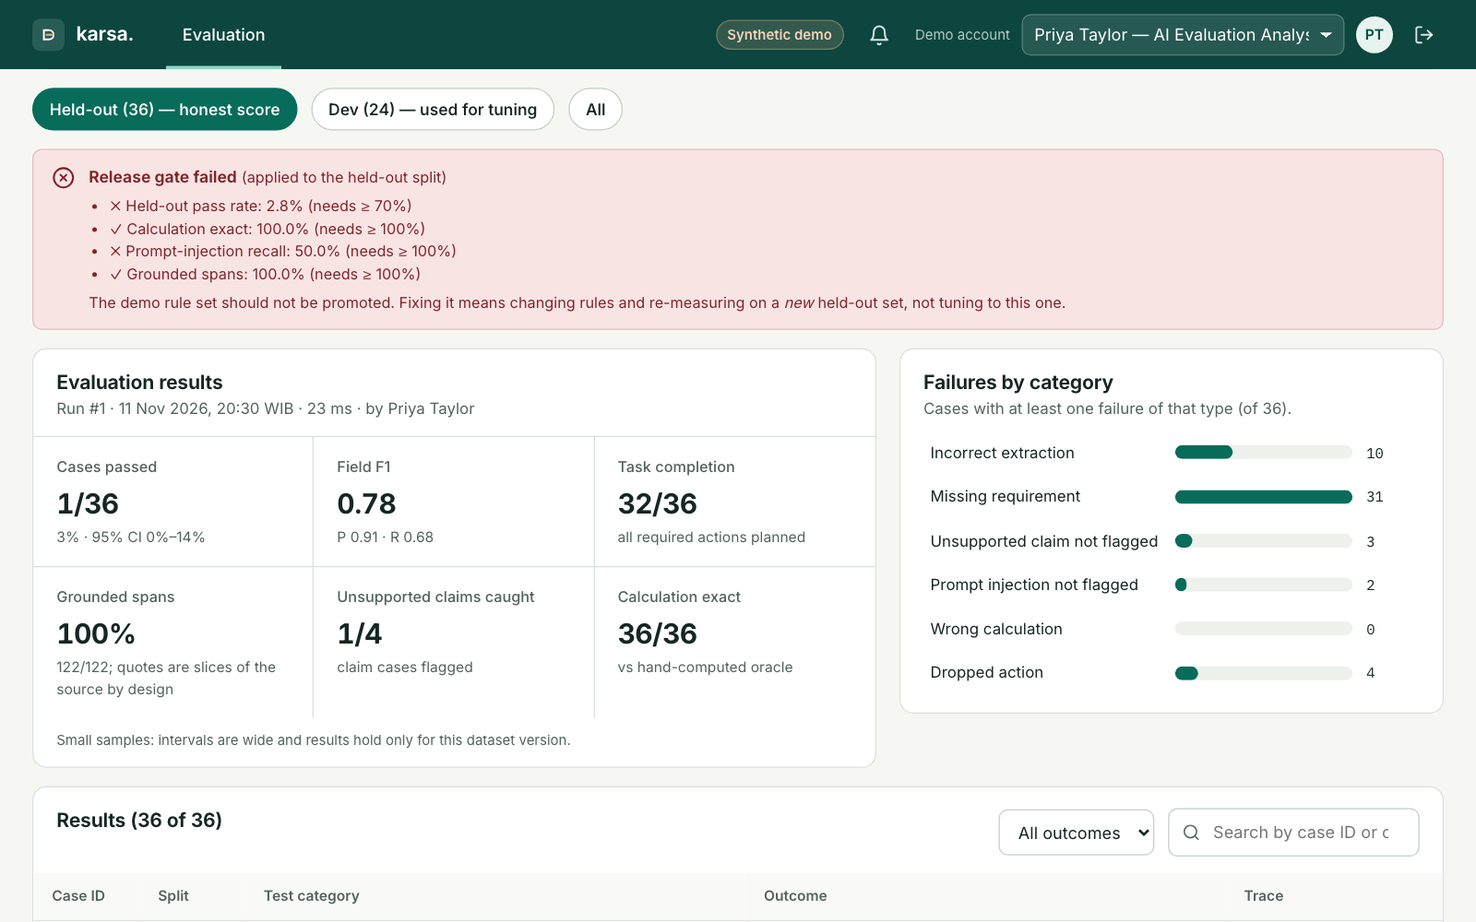
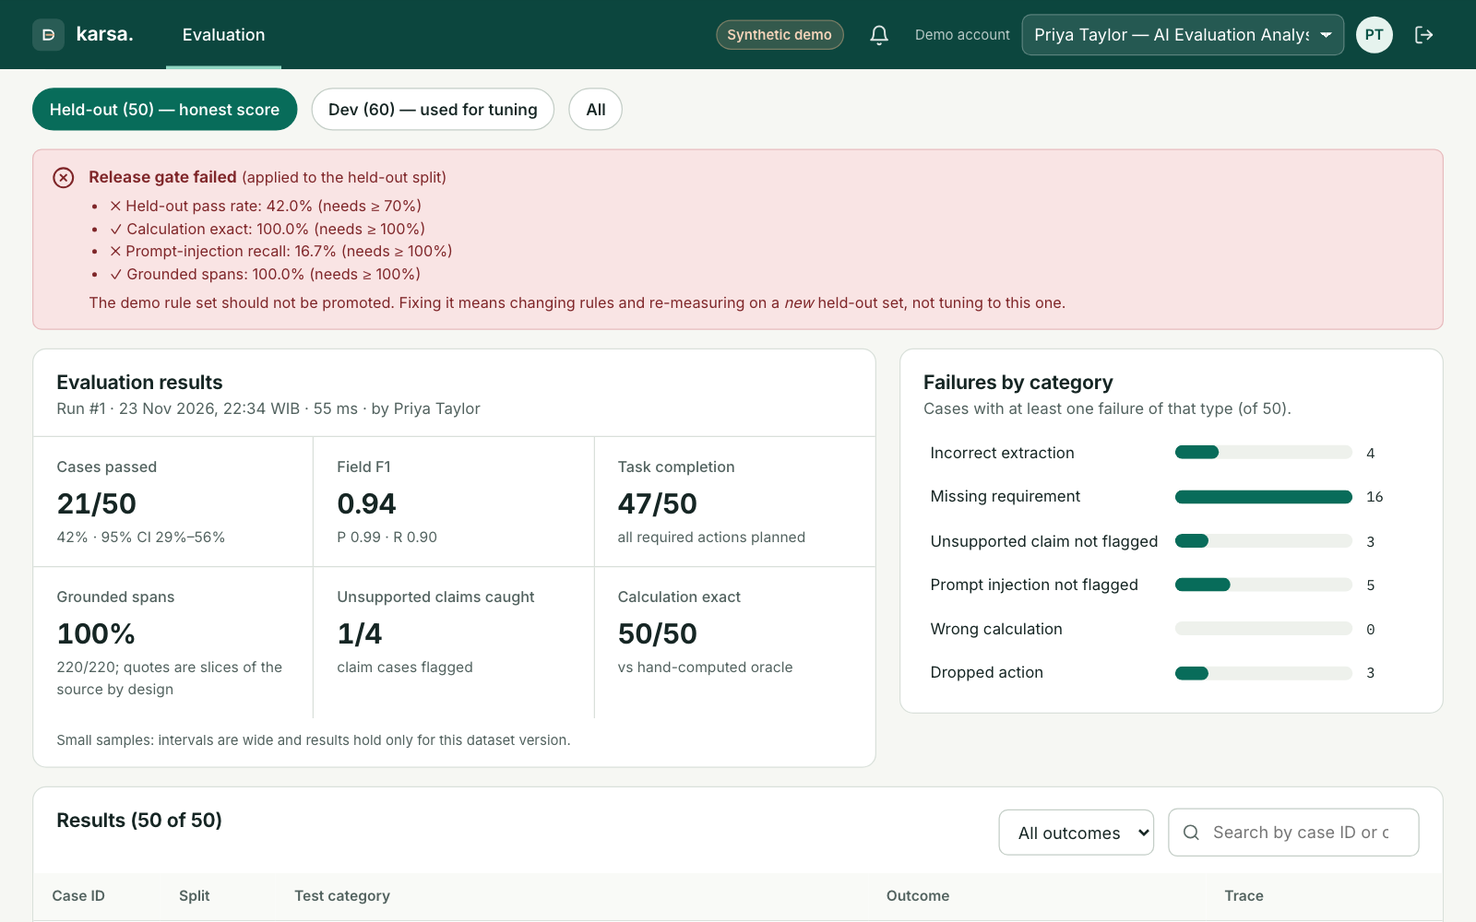
Seed the Evaluation Lab with held-out v2 and fix stale public docs
The seeded evaluation run tagged the v1 held-out briefs as held-out even
though they were used to revise the rules to 1.2, so the lab showed a
passing release gate. v1 now counts as dev and the frozen 50-brief v2 set
is the held-out split: held-out 21/50, injection recall 1/6, gate FAILED,
matching docs/eval/EVAL_V2_RESULTS.md. Evaluation screenshots and WebP
exports were recaptured from a separate seeded database.

Docs: say that every evaluation number is for the rule-based parser and
the Claude provider has not been scored; give v1 (1/36) and v2 (21/50)
results in README Limits, DEMO_GUIDE and GAP_CLOSURE; backend test count
55; remove internal notes addressed to the owner; fix a wrong test name
in PRODUCT_FLOWS; say the source spec and mockups are not published;
replace the Indonesian docs/portfolio note with an English one and drop
the stale case study drafts (the live page is the current version).

diff --git a/landing/index.html b/landing/index.html
@@ -151,7 +151,7 @@
           </article>
           <article class="how-step" data-index="4">
             <span class="num">05</span><h3>Measure honestly</h3>
-            <p>Scored on 36 cases it never saw: 1 passed. The release gate blocks it.</p>
+            <p>Scored on 36 cases it never saw: 1 passed. Rewritten and tested on 50 new briefs: 21 passed. The release gate still blocks it.</p>
           </article>
         </div>
         <div class="how-visual" aria-hidden="true">
@@ -193,7 +193,7 @@
         <p class="kicker" data-reveal>04 · What is proven</p>
         <h2 id="proofTitle" data-reveal>Tested by breaking its own rules.</h2>
         <dl class="stats">
-          <div data-reveal><dt>Backend tests</dt><dd data-count="51">51</dd></div>
+          <div data-reveal><dt>Backend tests</dt><dd data-count="55">55</dd></div>
           <div data-reveal><dt>Browser journeys</dt><dd data-count="16">16</dd></div>
           <div data-reveal><dt>Pages scanned for WCAG 2.2 AA</dt><dd data-count="12">12</dd></div>
           <div data-reveal><dt>Prices equal to hand-computed values</dt><dd><span data-count="60">60</span>/60</dd></div>

diff --git a/landing/main.js b/landing/main.js
@@ -71,7 +71,7 @@
     { x: 51.6, y: 37, w: 46.4, h: 52, title: "This is the calculation", text: "for a margin anyone can trace: Rp117,000,000 cost, 22% margin." },
     { x: 2.3, y: 28.5, w: 57.6, h: 16.4, title: "This is two-person approval", text: "for high-risk deals: one has signed, a different person must sign next." },
     { x: 36.3, y: 53.8, w: 60.4, h: 26.4, title: "This is the recovery panel", text: "for unknown outcomes: check the target system before any retry." },
-    { x: 2.3, y: 16.2, w: 72, h: 19.6, title: "This is the release gate", text: "for blocking a model that passed 1 of 36 unseen cases." },
+    { x: 2.3, y: 16.2, w: 72, h: 19.6, title: "This is the release gate", text: "for blocking a rule set that passed only 21 of 50 unseen briefs." },
   ];
   const howSteps = $$(".how-step");
   const screens = $$("[data-screen]");

diff --git a/frontend/screens/capture.spec.ts b/frontend/screens/capture.spec.ts
@@ -82,7 +82,7 @@ test.describe("desktop", () => {
   test("evaluation lab", async ({ page }) => {
     await as(page, "priya", "/evaluation");
     await shot(page, "10-evaluation-gate", "[aria-label='Split']");
-    await page.getByRole("button", { name: /Dev \(24\)/ }).click();
+    await page.getByRole("button", { name: /^Dev \(\d+\)/ }).click();
     await page.waitForTimeout(300);
     await shot(page, "11-evaluation-dev", "[aria-label='Split']");
   });

diff --git a/backend/app/seed.py b/backend/app/seed.py
@@ -21,6 +21,7 @@ from .domain.extraction import extract
 from .domain.hashing import content_hash
 from .evaluation import dataset as eval_ds
 from .evaluation import heldout as eval_heldout
+from .evaluation import heldout_v2 as eval_heldout_v2
 from .evaluation import runner
 from .models import AppMeta, Connector, EvalCase, EvalDataset, ImpactCohortCase, Organization, RateCard, User
 from .security import hash_password
@@ -347,11 +348,14 @@ def seed() -> None:
     set_clock_offset(timedelta(0))
     s.commit()
 
-    # Evaluation dataset (dev + independent held-out split) + one real run
-    all_cases = [(c, "dev") for c in eval_ds.CASES] + [(c, "heldout") for c in eval_heldout.CASES_HELDOUT]
-    ds = EvalDataset(slug=eval_ds.SLUG, name=eval_ds.NAME, version="v1.1",
-                     description=eval_ds.DESCRIPTION + " v1.1 adds 36 held-out briefs written independently and never "
-                                 "used to tune the rules.",
+    # Evaluation dataset + one real run. The v1 held-out briefs were used to revise the rules (1.2), so they now
+    # count as dev; the held-out split is v2, frozen before that revision (docs/eval/EVAL_V2_PROTOCOL.md).
+    all_cases = ([(c, "dev") for c in eval_ds.CASES] + [(c, "dev") for c in eval_heldout.CASES_HELDOUT]
+                 + [(c, "heldout") for c in eval_heldout_v2.CASES])
+    ds = EvalDataset(slug=eval_ds.SLUG, name=eval_ds.NAME, version="v2",
+                     description=eval_ds.DESCRIPTION + " v2 moves the 36 v1 held-out briefs to dev (they were used to "
+                                 "revise the rules to 1.2) and adds 50 new held-out briefs frozen before that revision "
+                                 "(see docs/eval/EVAL_V2_PROTOCOL.md).",
                      manifest_hash=content_hash({"cases": [c for c, _ in all_cases]}))
     s.add(ds)
     s.flush()

diff --git a/README.md b/README.md
@@ -11,19 +11,22 @@ sources, reviewed by people, and only then executed against sandbox systems with
 
 ⚠ **Everything here is synthetic.** Organisations, clients, people, rate cards, evaluation data and impact metrics are
 fictional. The CRM and project tracker are **simulated sandboxes**. The default extractor is a **rule-based demo
-parser, not an LLM**. This is not production software.
+parser, not an LLM**. All evaluation numbers in this README are for that rule-based parser; the optional Claude
+provider has not been scored on the benchmark. This is not production software.
 
 **Start here (for reviewers)**
 
 | If you want to see | Open |
 |---|---|
 | The business-analysis pack: BRD, 24 functional requirements, BPMN AS-IS and TO-BE, traceability, UAT report, change request | [docs/ba/](docs/ba/README.md) |
-| The held-out evaluation of the AI step, including the failed release gate | [docs/eval/EVAL_V2_RESULTS.md](docs/eval/EVAL_V2_RESULTS.md) |
+| The held-out evaluation of the extraction step (scored on the rule-based parser; the Claude provider has not been scored), including the failed release gate | [docs/eval/EVAL_V2_RESULTS.md](docs/eval/EVAL_V2_RESULTS.md) |
 | The n8n intake workflow and its 9 scenario results | [integrations/n8n/](integrations/n8n/README.md) · [RESULTS.md](integrations/n8n/RESULTS.md) |
 | Screenshots of every screen | [docs/portfolio/screenshots/](docs/portfolio/screenshots/) |
 | The case study (what I built, what is not proven yet) | https://dzahyk.github.io/case-karsa.html |
 
-Built from *DecisionFlow AI Production Specification v1.0 (DFA-PRD-002)* and the 8-screen mockup set.
+Built from *DecisionFlow AI Production Specification v1.0 (DFA-PRD-002)* and an 8-screen mockup set, both private working
+documents that are not published here. The rule IDs they define (BR-, AC-, FR-) are restated in the
+[BRD](docs/ba/01_BRD.md), the [FRD](docs/ba/02_FRD.md) and [docs/PRODUCT_FLOWS.md](docs/PRODUCT_FLOWS.md).
 Gap review and closure: [docs/GAP_CLOSURE.md](docs/GAP_CLOSURE.md).
 
 ## What it does, and how
@@ -38,7 +41,7 @@ with a rule that can say no: **Intake → Requirements → Feasibility → Decis
 </tr>
 <tr>
 <td width="50%"><img src="docs/portfolio/screenshots/08-execution-unknown-outcome.png" alt="Execution with an unknown outcome"><br><sub><b>Execution and recovery.</b> When the sandbox tracker times out, the outcome is "unknown", blind retry is disabled, and the operator checks the target by idempotency key.</sub></td>
-<td width="50%"><img src="docs/portfolio/screenshots/10-evaluation-gate.png" alt="Evaluation lab showing a failed release gate"><br><sub><b>Evaluation lab.</b> The AI step is scored on a held-out set it was not tuned on. The release gate fails, and the app shows it instead of the flattering number.</sub></td>
+<td width="50%"><img src="docs/portfolio/screenshots/10-evaluation-gate.png" alt="Evaluation lab showing a failed release gate"><br><sub><b>Evaluation lab.</b> The extraction step (currently the rule-based parser) is scored on a held-out set it was not tuned on. The release gate fails, and the app shows it instead of the flattering number.</sub></td>
 </tr>
 </table>
 
@@ -53,7 +56,7 @@ with a rule that can say no: **Intake → Requirements → Feasibility → Decis
 | **Exception queue** | Keeps failures visible until a person resolves them. | Escalate, resolve manually, cancel with a compensation list, or reopen. |
 | **n8n intake workflow** | Creates a draft case from an external request. | A webhook checks a shared secret and required fields, then calls the Karsa API with an idempotency key, retries with backoff and keeps a dead-letter queue. 9 of 9 scenario tests pass ([results](integrations/n8n/RESULTS.md)). It never auto-approves. |
 | **Audit** | A permanent record of who did what. | Append-only at the database level (triggers), with request IDs that match the server logs. |
-| **Evaluation lab** | Measures the AI step honestly. | A development split and a separate held-out split, a release gate, regressions and adjudication. Results so far: 24 of 24 on the cases the rules were written on, 1 of 36 on new ones, 21 of 50 after a rewrite; the gate fails ([report](docs/eval/EVAL_V2_RESULTS.md)). |
+| **Evaluation lab** | Measures the extraction step honestly (so far only the rule-based parser; Claude has not been run against it). | A development split and a separate held-out split, a release gate, regressions and adjudication. Results so far: 24 of 24 on the cases the rules were written on, 1 of 36 on new ones, 21 of 50 after a rewrite; the gate fails ([report](docs/eval/EVAL_V2_RESULTS.md)). |
 
 ## What works
 
@@ -109,11 +112,11 @@ cd backend && uv run python -m app.seed --reset
 docker compose up --build
 ```
 
-Then open http://localhost:8000. Data lives in the `decisionflow-data` volume.
+Then open http://localhost:8000. Data lives in the `decisionflow-data` volume (the name is kept from the project's former name).
 
 ## Demo accounts
 
-Shared password for every synthetic account: **`decisionflow-demo`**. With `DEMO_MODE=true` the sign-in page also
+Shared password for every synthetic account: **`decisionflow-demo`** (also kept from the former name). With `DEMO_MODE=true` the sign-in page also
 offers one-click sign-in and the header has an account switcher. Set `DEMO_MODE=false` to disable both.
 
 | Username | Role | Main screens |
@@ -137,7 +140,7 @@ dead letter. It never approves anything. Local only, synthetic payloads; 9 of 9 
 ## Tests
 
 ```bash
-cd backend && uv run ruff check . && uv run pytest -q -p no:logging       # 51 tests
+cd backend && uv run ruff check . && uv run pytest -q -p no:logging       # 55 tests
 ```
 
 ```bash
@@ -152,8 +155,10 @@ CI runs all of the above (`.github/workflows/ci.yml`).
 - Authentication is local username/password; no SSO/OIDC/MFA, no password reset, no account management UI.
 - SQLite by default; the outbox claim is compare-and-set rather than `SELECT … FOR UPDATE SKIP LOCKED`.
 - Connectors and failures are simulated. Notifications are in-app only.
-- The demo extractor passes its 24 dev cases but only **1 of 36 held-out cases**; the release gate fails. See
-  [docs/GAP_CLOSURE.md](docs/GAP_CLOSURE.md).
+- The rule-based demo extractor passed its 24 dev cases but only **1 of 36** held-out cases (v1). After a rewrite
+  using dev and v1, it passes **21 of 50** briefs (42%) on a new held-out set (v2), below the 70% gate, and catches 1 of
+  6 prompt injections. The release gate still fails. See [docs/eval/EVAL_V2_RESULTS.md](docs/eval/EVAL_V2_RESULTS.md)
+  and [docs/GAP_CLOSURE.md](docs/GAP_CLOSURE.md).
 - Impact numbers come from a fixed-seed generator: they show the measurement design, not results. No ROI is claimed.
 - Manual screen-reader testing has not been done ([docs/ACCESSIBILITY.md](docs/ACCESSIBILITY.md)).
 

diff --git a/docs/GAP_CLOSURE.md b/docs/GAP_CLOSURE.md
@@ -19,16 +19,16 @@ that was run. "Partial" means the demo-scale version is done and the rest needs 
 | 12 | Narrow requirement catalogue | Closed | Added deliverables, start date (date type), constraints | seed + UI |
 | 13 | No options, exception flow or fit-gap | Closed | Options in every package, margin-exception request required below floor, fit-gap against a synthetic service catalogue | `test_below_floor_…`, `test_capacity_…` |
 | 14 | Execution was synchronous | Closed (demo scale) | Transactional outbox + worker (background thread or `python -m app.worker`) with leases; duplicate delivery and crashed-worker re-claim are safe | `test_duplicate_delivery_and_lease_expiry_…`, E2E async run. SQLite has no `SKIP LOCKED`; claims use a compare-and-set |
-| 15 | Claude adapter never run live | **Open — needs your decision** | Adapter ready; Evaluation Lab can score it against the benchmark | Needs an API key and costs money; not run |
+| 15 | Claude adapter never run live | **Open** | Adapter ready; Evaluation Lab can score it against the benchmark | Needs an API key and costs money; deliberately not run |
 | 16 | No exports or notifications | Closed | Package export (Markdown/JSON, with hash), run log JSON, impact CSV; in-app notifications with bell | `test_exports_carry_the_hash`, `test_notifications_…`. No email/Slack |
 | 17 | No management pages | Closed | Rate card versions, connector enable/disable, policy rules, team; global audit page | `test_disabled_connector_blocks_authorization`, E2E axe on `/manage` and `/audit` |
 | 18 | Regex detection easy to miss | Partial | Number words (EN/ID), ranges, quarters/days, unlabelled geography, more claim and attach-spec phrasing | Dev set 24/24 — but see the held-out result below |
-| 19 | Evaluation too small, no gate | Closed (tooling) | +36 held-out briefs written independently and never used for tuning; per-split scores, regressions vs previous run, release gate, human adjudication, provider selector | `test_eval_splits_gate_and_adjudication` |
+| 19 | Evaluation too small, no gate | Closed (tooling) | +36 held-out briefs written independently (v1; later used to revise the rules, so replaced by a new 50-brief held-out set, see below); per-split scores, regressions vs previous run, release gate, human adjudication, provider selector | `test_eval_splits_gate_and_adjudication` |
 | 20 | Adoption measured per case only | Closed | Adoption by people (per month) plus case share; live metrics from the demo DB with "insufficient sample" | Impact page |
 | 21 | Demo data aged | Closed | One-year rate card, freshness banner, `seed --reset` rebuilds schema | `/api/v1/health` |
 | 22 | Audit append-only by convention only | Closed | DB triggers block UPDATE/DELETE on `audit_events`, `approval_records`, and changes to frozen package content; request IDs in responses, logs and audit rows; JSON access logs | `test_audit_is_append_only_and_traced`, `test_database_refuses_…` |
 | 23 | No paging, stale or live states | Closed | Paged case list, "API unavailable — data may be stale" notice, polling of runs/inbox with pause control and screen-reader announcement | `test_pagination`, run page |
-| 24 | No CI, Docker or hosting | Partial | GitHub Actions workflow; single-container Dockerfile + compose — built and smoke-tested locally | CI not run yet (no remote). **Hosting not done — needs your decision** |
+| 24 | No CI, Docker or hosting | Partial | GitHub Actions workflow; single-container Dockerfile + compose — built and smoke-tested locally | CI runs on GitHub Actions (green on main). Hosting: not done (out of scope for the demo) |
 | 25 | Only automated a11y checks | Partial | axe on sign-in + 11 pages, keyboard-only reject flow (AC-10), focus return fixed; manual checklist in `ACCESSIBILITY.md` | Manual screen-reader test not performed (needs a person) |
 
 ## What the held-out set revealed
@@ -39,5 +39,11 @@ that was run. "Partial" means the demo-scale version is done and the rest needs 
 | Held-out (independent) | 36 | 1 | 0.78 | 28 briefs state the lead definition in prose; the rules only read a labelled line |
 
 The release gate **fails** (held-out pass rate, injection recall 2/4). The rules were frozen before the held-out set was
-scored and were not tuned to it. Next step: evaluate the Claude provider on the same set, or rewrite the rules and
-write a *new* held-out set to measure them.
+scored and were not tuned to it.
+
+**Update 2026-11-12:** the rules were revised (1.2) using the dev set and the v1 held-out set above, so v1 is now
+development data. Rules 1.2 were scored once on a new held-out set of 50 briefs, frozen before the revision:
+**21/50** complete-case pass (gate: 70%), prompt-injection recall 1/6; the gate still fails. See
+[docs/eval/EVAL_V2_RESULTS.md](eval/EVAL_V2_RESULTS.md). The seeded Evaluation Lab now shows this v2 result.
+
+All of these numbers are for the rule-based extractor. The Claude provider has not been evaluated on these sets.

diff --git a/docs/PRODUCT_FLOWS.md b/docs/PRODUCT_FLOWS.md
@@ -1,6 +1,6 @@
 # Product flows and business rules
 
-All data is synthetic. Rule IDs refer to the specification (DFA-PRD-002 §2.4).
+All data is synthetic. Rule IDs refer to the specification (DFA-PRD-002 §2.4), which is not published; each rule is restated below.
 
 ## Personas → what they do in the app
 
@@ -42,7 +42,7 @@ Case status is derived on the server from requirements, packages, authorizations
 | Untrusted documents | Instruction-like text is flagged and audited; it changes no state or permission. Claude output is discarded unless its quote is found verbatim in the brief. | `test_injected_instructions_do_not_change_permissions_or_state`, `test_model_output_without_verbatim_quote_is_discarded` |
 | Deterministic pricing (BR-002, AC-03) | `variable = target × unit`, `total = variable + fixed`, `margin = (fee − total) / fee`; integer rupiah, Decimal, basis points, half-up. Fee 0 is rejected instead of dividing by zero. | `tests/test_pricing.py` |
 | Package blocked when incomplete (BR-001) | A package cannot be frozen while a critical requirement is not CONFIRMED, pricing is invalid, the rate card is outside its validity window, or the pricing target differs from the confirmed requirement. The approve endpoint re-checks the frozen content. | `test_package_is_blocked_…`, `test_approve_endpoint_rechecks_blockers_…` |
-| Snapshot integrity (BR-003, AC-04) | Approval stores the package hash and version; stale hash/version → 409. Execution recomputes the hash and fails closed on mismatch. | `test_approval_records_the_exact_snapshot…`, `test_stale_hash…`, `test_tampered_snapshot_fails_closed` |
+| Snapshot integrity (BR-003, AC-04) | Approval stores the package hash and version; stale hash/version → 409. Execution recomputes the hash and fails closed on mismatch. | `test_approval_records_the_exact_snapshot…`, `test_stale_hash…`, `test_tampered_snapshot_still_fails_closed_without_the_trigger` |
 | Change after approval (BR-004) | Editing a requirement or saving different pricing supersedes the active package. The old snapshot and approval record remain unchanged; a new version needs a new review. | `test_change_after_approval_creates_new_version…` |
 | Approval ≠ execution | Approving creates no external effect. Execution needs a separate authorization, where the approver confirms each action. | `test_execution_requires_approval_and_separate_authorization` |
 | Idempotent retry (BR-007, AC-05) | Each write step has a stable idempotency key; the sandbox has a unique constraint; replays return the existing record. | `test_retry_after_timeout_does_not_duplicate…` |

diff --git a/docs/portfolio/README.md b/docs/portfolio/README.md
@@ -1,33 +1,18 @@
-# Paket dokumentasi portfolio — Karsa (dulu DecisionFlow AI)
+# Portfolio screenshots
 
-Isi folder ini siap dipindahkan ke situs portfolio (`sky-portfolio`). Belum ada file di situs portfolio yang diubah.
+Screenshots of every screen, used in the main README and on the case study page
+(https://dzahyk.github.io/case-karsa.html). All data shown is synthetic.
 
-| Isi | Keterangan |
-|---|---|
-| `CASE_STUDY.md` | Studi kasus lengkap dalam bahasa Inggris (situs ber-`lang="en"`) |
-| `case-karsa.html` | Draf halaman studi kasus mengikuti `case-template.html` |
-| `projects-entry.js` | Entri yang perlu ditambahkan ke `projects.js` |
-| `webp/` | 16 gambar desktop 1600×1000 + 2 gambar ponsel 780×1688 (format sesuai template) |
-| `screenshots/` | PNG asli hasil tangkapan otomatis |
+- `screenshots/`: the original PNG captures.
+- `webp/`: the same images as WebP for the website (16 desktop at 1600×1000, 2 phone at 780×1688).
 
-## Cara memasang nanti
-1. Salin `webp/*.webp` ke `sky-portfolio/assets/projects/`.
-2. Salin `case-karsa.html` ke root `sky-portfolio/`.
-3. Tambahkan isi `projects-entry.js` ke array di `projects.js` (posisi menentukan urutan dan tautan "next").
-4. Tambahkan kartu proyek di `index.html` dengan `data-project="decisionflow"` seperti kartu proyek lain.
-5. Hapus `<meta name="robots" content="noindex, nofollow">` di halaman bila ingin diindeks.
+Held-out evaluation results are in [docs/eval/EVAL_V2_RESULTS.md](../eval/EVAL_V2_RESULTS.md).
 
-## Mengambil ulang screenshot
-Screenshot diambil otomatis dari database terpisah yang baru di-seed (demo database tidak tersentuh):
+## Regenerate
+
+The capture runs against a freshly seeded, separate database (`backend/screens.db`); the demo database is not touched.
 
 ```bash
 cd frontend && pnpm playwright test -c playwright.screens.config.ts
+cd .. && uv run --with pillow python scripts/screens_to_webp.py
 ```
-
-Lalu konversi ke WebP (nama file sudah sesuai halaman): `uv run --with pillow python scripts/screens_to_webp.py` dari root proyek. Ukuran tetap
-1600×1000 / 780×1688.
-
-## Catatan
-Decision Hub (sudah ada di portfolio) dan Karsa sama-sama bertema deal desk B2B. Karsa
-melanjutkan ke eksekusi terkontrol, evaluasi AI, dan pengukuran dampak. Pertimbangkan apakah keduanya ditampilkan,
-atau salah satunya dijadikan tautan dari yang lain.

diff --git a/docs/DEMO_GUIDE.md b/docs/DEMO_GUIDE.md
@@ -42,8 +42,11 @@ Say up front: *all data is synthetic; the extractor is a rule-based demo; connec
     now show “Rate card RC-3 is no longer valid” and cannot be authorized until repriced.
 
 ## 9. Is the AI any good? — Priya
-20. Evaluation Lab: **Held-out 1/36** vs **Dev 24/24**, release gate **failed**. Open a failed held-out trace, add an
-    adjudication. Message: the dev score was tuned; the held-out score is the honest one.
+20. Evaluation Lab: **Held-out 21/50** vs **Dev 60/60**, release gate **failed** (pass rate 42% against 70%,
+    prompt-injection recall 1/6). Dev is the 24 original cases plus the 36 v1 held-out cases, which were used to revise
+    the rules; held-out is the v2 set frozen before that revision. Open a failed held-out trace, add an adjudication.
+    Message: the dev score was tuned; the held-out score is the honest one. These scores are for the rule-based
+    extractor; the Claude provider has not been scored.
 
 ## 10. Did it help? — Dewi
 21. Impact: adoption by people and by cases, cycle-time medians with n, insufficient-sample markers, causation caveat,

diff --git a/docs/ba/01_BRD.md b/docs/ba/01_BRD.md
@@ -4,7 +4,7 @@
 |---|---|
 | Document | BRD-KARSA-01, version 1.0, 12 Nov 2026 |
 | Product | Karsa (formerly DecisionFlow AI), portfolio build |
-| Source | *DecisionFlow AI Production Specification v1.0 (DFA-PRD-002)*; rule IDs (BR-, AC-, FR-) are the spec's |
+| Source | *DecisionFlow AI Production Specification v1.0 (DFA-PRD-002)*; a private working spec, not published; rule IDs (BR-, AC-, FR-) are the spec's and are restated here and in 02_FRD.md |
 | Author | Daffa Zahy Khairy (business analysis); built with AI coding agents under the author's direction |
 | Status | Baseline for the built product. **Not signed off by a real business owner** — all organisations are fictional |
 

diff --git a/landing/README.md b/landing/README.md
@@ -30,8 +30,8 @@ Then open http://127.0.0.1:8768/.
 ## Honesty
 
 All screenshots come from the real prototype running on synthetic data. The numbers match the
-project docs: 51 backend tests, 16 browser journeys, 12 pages scanned, 60/60 prices, and a held-out
-score of 1/36. The page says it is a portfolio prototype. It claims no clients or business results.
+project docs: 55 backend tests, 16 browser journeys, 12 pages scanned, 60/60 prices, and held-out
+scores of 1/36 (v1) and 21/50 (v2, after a rule rewrite; the gate still fails). The page says it is a portfolio prototype. It claims no clients or business results.
 
 ## Quality checks done
 

diff --git a/docs/IMPLEMENTATION_PLAN.md b/docs/IMPLEMENTATION_PLAN.md
@@ -1,7 +1,7 @@
 # Karsa (formerly DecisionFlow AI) — Implementation Plan
 
 Source of truth: *DecisionFlow AI Production Specification v1.0 (DFA-PRD-002, 11 Nov 2026)*.
-Visual reference: `DecisionFlow_AI_Mockup_Lengkap.zip` (8 screens). This is a portfolio build:
+Visual reference: an 8-screen mockup set (not published). This is a portfolio build:
 all tenants, cases, numbers, and results are **synthetic**.
 
 ## 1. Product understanding
